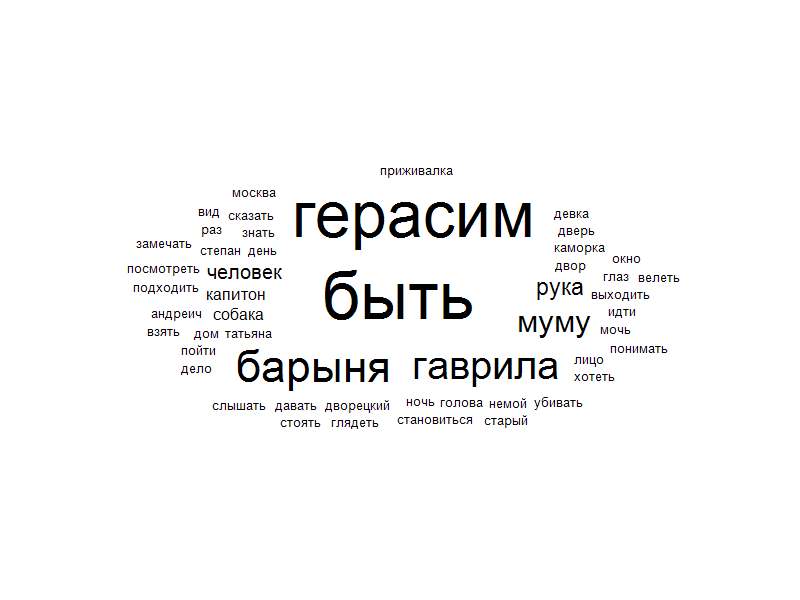
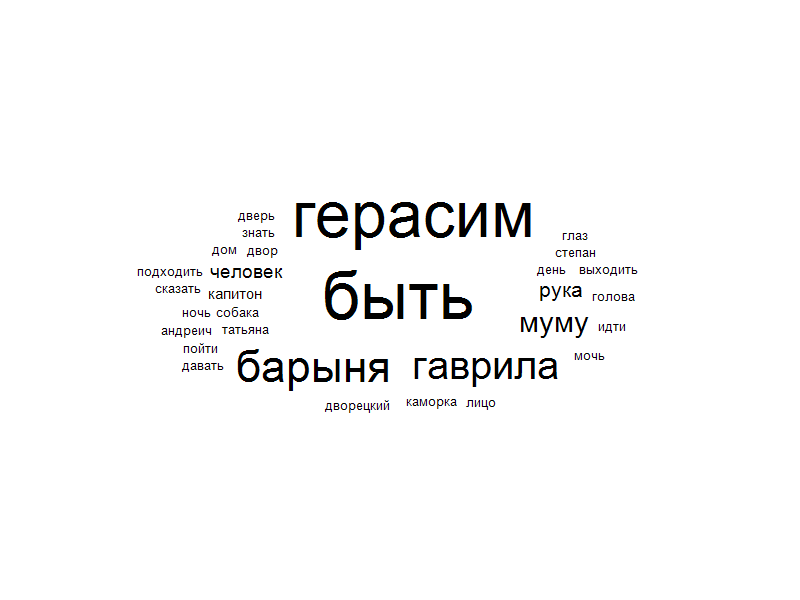
Remove GetValueOrThrow method usage

diff --git a/TagsCloudContainer/App/TagCloudApp.cs b/TagsCloudContainer/App/TagCloudApp.cs
@@ -1,4 +1,6 @@
-using System.Linq;
+using System;
+using System.Collections.Generic;
+using System.Linq;
 using TagsCloudContainer.CloudLayouter;
 using TagsCloudContainer.CounterNamespace;
 using TagsCloudContainer.Extensions;
@@ -23,36 +25,54 @@ namespace TagsCloudContainer.App
             this.analyzer = analyzer;
         }
 
-        public void Run()
+        public Result<None> Run()
         {
-            FillCloud();
-            visualizer.Visualize();
-            visualizer.Save();
+            return Result.Of(() => FillCloud())
+                .Then(none => visualizer.Visualize())
+                .Then(none => visualizer.Save())
+                .RefineError("Could not run App");
         }
 
-        private Counter<Word> GetCounterSelectedWords()
+        private Result<Counter<Word>> GetCounterSelectedWords()
         {
             var partSpeech = MorphologicalAnalyzer.GetPartSpeech(options.PartSpeeches);
-            var words = analyzer.GetWords().Where(word => partSpeech.HasFlag(word.PartSpeech));
-            return new Counter<Word>(words);
+            if (!partSpeech.IsSuccess)
+                return Result.Fail<Counter<Word>>(partSpeech.Error);
+            var words = analyzer.GetWords();
+            var selectedWords = new List<Word>();
+            foreach (var word in words)
+            {
+                if (!word.IsSuccess)
+                    return Result.Fail<Counter<Word>>(word.Error);
+                if (partSpeech.Value.HasFlag(word.Value.PartSpeech))
+                    selectedWords.Add(word.Value);
+            }
+            return new Counter<Word>(selectedWords);
         }
 
-        private void FillCloud()
+        private Result<None> FillCloud()
         {
             var counter = GetCounterSelectedWords();
-            var words = counter.GetMostPopular(options.Count).ToList();
-            var minAmount = counter.GetAmount(words.Last());
-            var maxAmount = counter.GetAmount(words.First());
+            if (!counter.IsSuccess)
+                return Result.Fail<None>(counter.Error);
+            var words = counter.Value.GetMostPopular(options.Count).ToList();
+            var minAmount = counter.Value.GetAmount(words.Last());
+            var maxAmount = counter.Value.GetAmount(words.First());
             foreach (var word in words)
             {
                 if (visualizer is TagCloudVisualizer tagCloudVisualizer)
                 {
                     var font = tagCloudVisualizer
-                        .GetFontByWeightWord(counter.GetAmount(word), minAmount, maxAmount);
-                    var size = tagCloudVisualizer.MeasureString(word.Text, font).Ceiling();
-                    cloud.PutNextCloudItem(word.Text, size, font).GetValueOrThrow();
+                        .GetFontByWeightWord(counter.Value.GetAmount(word), minAmount, maxAmount);
+                    if (!font.IsSuccess)
+                        return Result.Fail<None>(font.Error);
+                    var size = tagCloudVisualizer.MeasureString(word.Text, font.Value).Ceiling();
+                    var item = cloud.PutNextCloudItem(word.Text, size, font.Value);
+                    if (!item.IsSuccess)
+                        return Result.Fail<None>(item.Error);
                 }
             }
+            return Result.Ok();
         }
     }
 }

diff --git a/TagsCloudContainer/Visualizer/TagCloudVisualizer.cs b/TagsCloudContainer/Visualizer/TagCloudVisualizer.cs
@@ -20,21 +20,23 @@ namespace TagsCloudContainer.Visualizer
             graphics = Graphics.FromImage(bitmap);
         }
 
-        public void Visualize()
+        public Result<None> Visualize()
         {
             var foregroundBrush = Result.Of(
-                () => new SolidBrush(Color.FromName(options.ForegroundColor)),
-                "Incorrect foreground color")
-                .GetValueOrThrow();
+                () => new SolidBrush(Color.FromName(options.ForegroundColor)));
+            if (!foregroundBrush.IsSuccess)
+                return Result.Fail<None>("Incorrect foreground color");
             var backgroundBrush = Result.Of(
-                () => new SolidBrush(Color.FromName(options.BackgroundColor)),
-                "Incorrect background color")
-                .GetValueOrThrow();
+                () => new SolidBrush(Color.FromName(options.BackgroundColor)));
+            if (!backgroundBrush.IsSuccess)
+                return Result.Fail<None>("Incorrect background color");
 
-            graphics.FillRectangle(backgroundBrush, 0, 0, options.Width, options.Height);
+            graphics.FillRectangle(backgroundBrush.Value, 0, 0, options.Width, options.Height);
             foreach (var item in cloud.Items)
                 graphics.DrawString(
-                    item.Word, item.Font, foregroundBrush, item.Rectangle);
+                    item.Word, item.Font, foregroundBrush.Value, item.Rectangle);
+
+            return Result.Ok();
         }
 
         public void Save()
@@ -48,14 +50,14 @@ namespace TagsCloudContainer.Visualizer
             return graphics.MeasureString(text, font);
         }
 
-        public Font GetFontByWeightWord(int weight, int minWeight, int maxWeight)
+        public Result<Font> GetFontByWeightWord(int weight, int minWeight, int maxWeight)
         {
             var fontSize = Math.Max(options.MinFontSize,
                 options.MaxFontSize * (weight - minWeight) / (maxWeight - minWeight));
-            var fontFamily = Result.Of(
-                () => new FontFamily(options.FontFamily), "Incorrect Font Family")
-                .GetValueOrThrow();
-            return new Font(fontFamily, fontSize);
+            var fontFamily = Result.Of(() => new FontFamily(options.FontFamily));
+            if (!fontFamily.IsSuccess)
+                return Result.Fail<Font>("Incorrect Font Family");
+            return new Font(fontFamily.Value, fontSize);
         }
     }
 }

diff --git a/TagsCloudContainer/MorphologicalAnalysis/MorphologicalAnalyzer.cs b/TagsCloudContainer/MorphologicalAnalysis/MorphologicalAnalyzer.cs
@@ -25,7 +25,7 @@ namespace TagsCloudContainer.MorphologicalAnalysis
             process = InitProcess();
         }
 
-        public IEnumerable<Word> GetWords()
+        public IEnumerable<Result<Word>> GetWords()
         {
             foreach (var line in GetLines())
             {
@@ -35,9 +35,11 @@ namespace TagsCloudContainer.MorphologicalAnalysis
 
                 var word = match.Groups[1].Value;
                 var aliasPartSpeech = match.Groups[2].Value;
-                var partSpeech = IdentifyPartSpeech(aliasPartSpeech).GetValueOrThrow();
 
-                yield return new Word(word, partSpeech);
+                var partSpeech = IdentifyPartSpeech(aliasPartSpeech);
+                if (!partSpeech.IsSuccess)
+                    yield return Result.Fail<Word>(partSpeech.Error);
+                yield return new Word(word, partSpeech.Value);
             }
         }
 
@@ -63,12 +65,17 @@ namespace TagsCloudContainer.MorphologicalAnalysis
             };
         }
 
-        public static PartSpeech GetPartSpeech(IEnumerable<string> partSpeeches)
+        public static Result<PartSpeech> GetPartSpeech(IEnumerable<string> partSpeeches)
         {
-            return partSpeeches
-                .Select(x => x.ToUpper())
-                .Aggregate(PartSpeech.None,
-                    (acc, next) => acc |= IdentifyPartSpeech(next).GetValueOrThrow());
+            var resultPartSpeech = PartSpeech.Noun;
+            foreach (var partSpeech in partSpeeches.Select(x => x.ToUpper()))
+            {
+                var identify = IdentifyPartSpeech(partSpeech);
+                if (!identify.IsSuccess)
+                    return Result.Fail<PartSpeech>(identify.Error);
+                resultPartSpeech |= identify.Value;
+            }
+            return resultPartSpeech;
         }
 
         private IEnumerable<string> GetLines()

diff --git a/TagsCloudContainer/Program.cs b/TagsCloudContainer/Program.cs
@@ -15,13 +15,11 @@ namespace TagsCloudContainer
 
         private static void Main(string[] args)
         {
-            var options = Result.Of(
-                () => Parser.Default.ParseArguments<Options>(args).Value,
-                "Command line arguments cannot be parsed")
+            Result.Of(() => Parser.Default.ParseArguments<Options>(args).Value)
                 .Then(ValidateOptions)
-                .GetValueOrThrow();
-            var app = CreateApp(options);
-            app.Run();
+                .Then(options => CreateApp(options))
+                .Then(app => app.Run())
+                .OnFail(Console.WriteLine);
         }
 
         private static IApp CreateApp(Options options)

diff --git a/TagsCloudContainer/Visualizer/IVisualizer.cs b/TagsCloudContainer/Visualizer/IVisualizer.cs
@@ -2,7 +2,7 @@
 {
     public interface IVisualizer
     {
-        public void Visualize();
+        public Result<None> Visualize();
         public void Save();
     }
 }

diff --git a/TagsCloudContainer/App/IApp.cs b/TagsCloudContainer/App/IApp.cs
@@ -2,6 +2,6 @@
 {
     public interface IApp
     {
-        public void Run();
+        public Result<None> Run();
     }
 }
